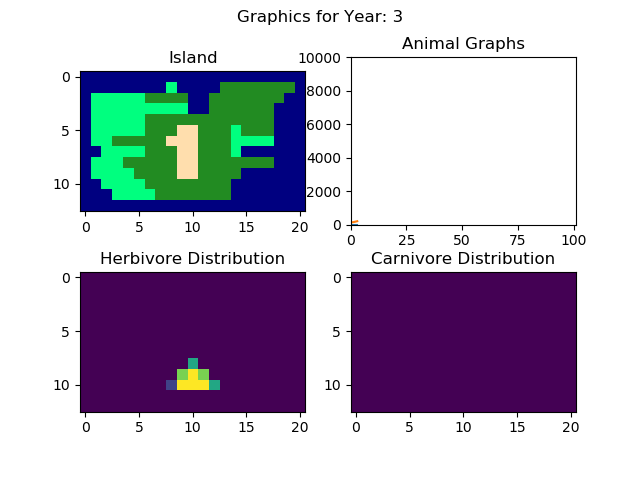
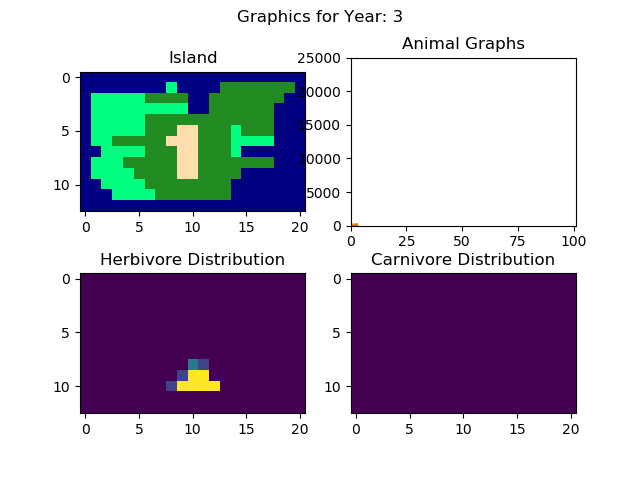
Printed images for 105 pictures in the simulation

diff --git a/examples/check_sim.py b/examples/check_sim.py
@@ -45,12 +45,11 @@ if __name__ == '__main__':
                  #               'weight': {'max': 60, 'delta': 2}},
                  )
 
-    sim.set_animal_parameters('Herbivore', {}
-                              #{'zeta': 3.2, 'xi': 1.8}
-                              )
-    sim.set_animal_parameters('Carnivore', {})
-    #{'a_half': 70, 'phi_age': 0.5, 'omega': 0.3, 'F': 65,
-     #'DeltaPhiMax': 9})
+    sim.set_animal_parameters('Herbivore',
+            {'zeta': 3.2, 'xi': 1.8})
+    sim.set_animal_parameters('Carnivore',
+    {'a_half': 70, 'phi_age': 0.5, 'omega': 0.3, 'F': 65,
+     'DeltaPhiMax': 9})
     sim.set_landscape_parameters('L', {'f_max': 700})
 
     sim.simulate(num_years=100, vis_years=1#, img_years=2000

diff --git a/biosim/simulation.py b/biosim/simulation.py
@@ -70,7 +70,7 @@ class BioSim:
         self.add_population(ini_pop)
 
         if ymax_animals is None:
-            self.ymax_animals = 10000
+            self.ymax_animals = 25000
         else:
             self.ymax_animals = ymax_animals
 
